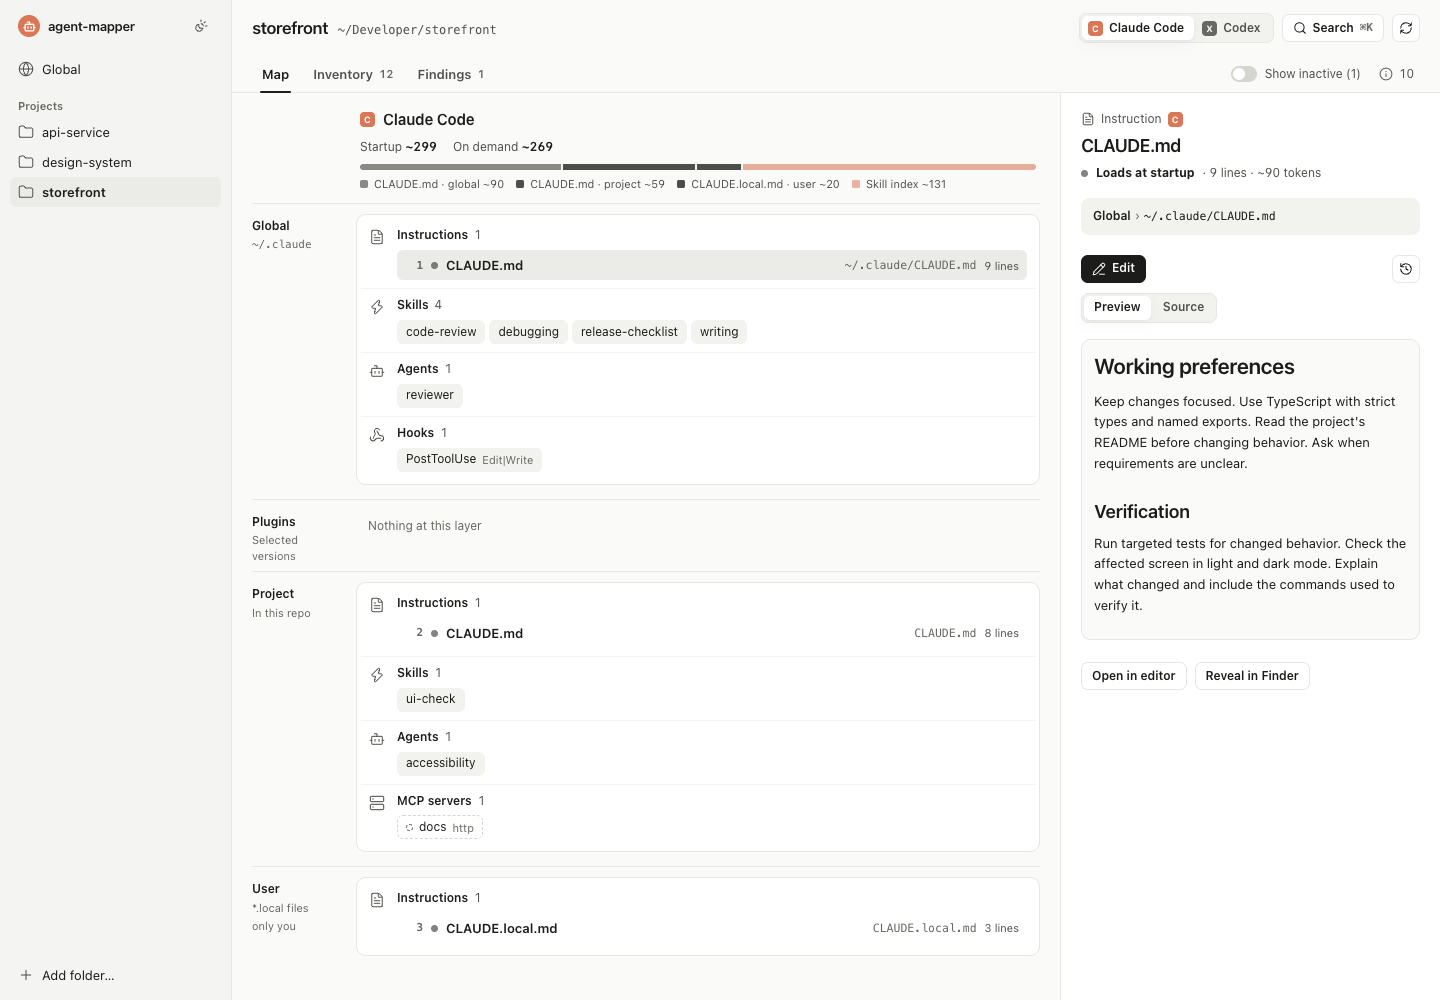
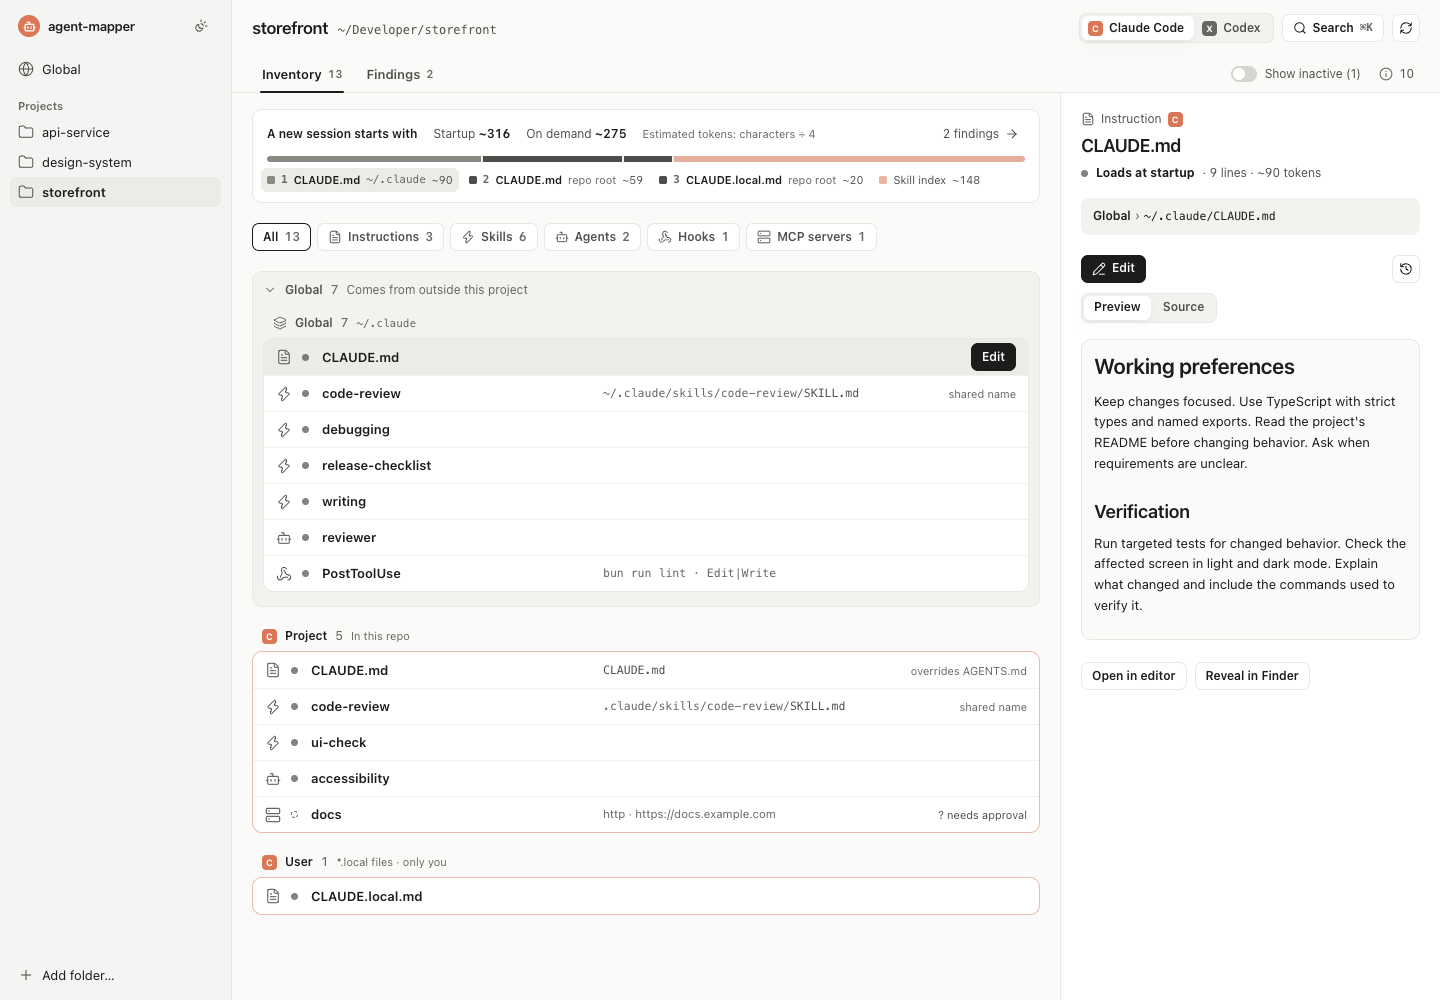
docs: update readme screenshots for inventory landing

diff --git a/README.md b/README.md
@@ -6,7 +6,7 @@ Agent configuration gets scattered across home folders, repositories, plugins, a
 
 <picture>
   <source media="(prefers-color-scheme: dark)" srcset="https://raw.githubusercontent.com/mxmkhv/agent-mapper/dev/docs/screenshots/project-map-dark.png">
-  <img src="https://raw.githubusercontent.com/mxmkhv/agent-mapper/dev/docs/screenshots/project-map-light.png" alt="Project map showing global and project instructions, skills, agents, hooks, and MCP configuration, with a selected instruction's source and preview">
+  <img src="https://raw.githubusercontent.com/mxmkhv/agent-mapper/dev/docs/screenshots/project-map-light.png" alt="Project inventory with a startup summary in load order above global and project instructions, skills, agents, hooks, and MCP configuration, with a selected instruction's source and preview">
 </picture>
 
 Screenshots use a sample setup.
